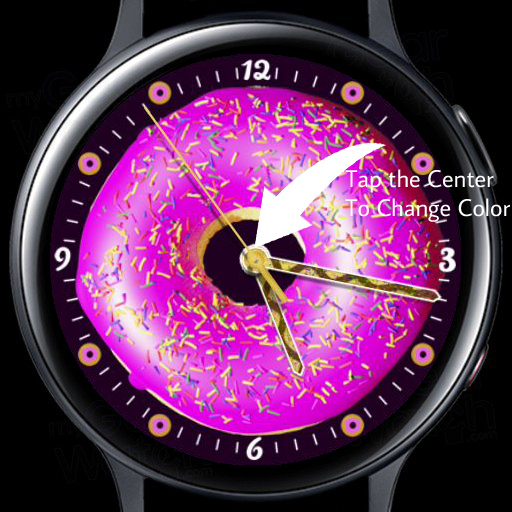
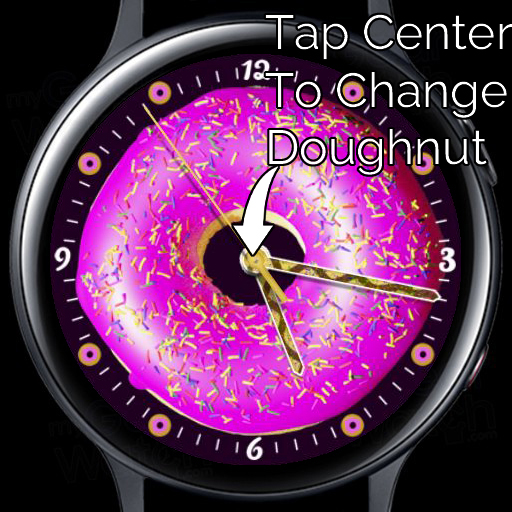
mobile css on explore and instruction img changes

Changed region(s): [[0.4375, 0.0, 1.0, 0.5]]

diff --git a/css/style.css b/css/style.css
@@ -1,1 +1,1 @@
-nav{width:100%;position:fixed;top:0;padding:10px 0;max-height:42.5px;z-index:10}nav .watchIcon{height:30px;margin-left:10px}nav ul{float:right;position:relative;width:350px;display:flex;align-items:center;justify-content:space-around;font-family:"Raleway",sans-serif;font-weight:400;font-size:20px;list-style:none;color:#fff;transition:.5s ease-in-out}nav ul li{transition:.3s ease-in-out;cursor:pointer}nav ul li a{text-decoration:none;color:#fff}nav ul li a:hover{color:#dce0e6}nav .mobileNav{position:fixed;top:10px;right:20px;height:26px;width:30px;display:none;flex-direction:column;align-items:center;justify-content:space-between;z-index:15;cursor:pointer}nav .mobileNav div{width:35px;height:6px;border-radius:2px;background-color:#fff;border:1px solid #000;pointer-events:none;transition:.3s ease-in-out}nav .selected{color:#dce0e6}nav .selected::after{content:"";border-bottom:1px solid #0226b0;display:block}@media screen and (max-width: 1000px){nav{padding:0}nav .watchIcon{margin-top:10px}nav ul{width:100%;height:50vh;position:absolute;top:-1200%;flex-direction:column;background-color:rgba(0,0,0,.8);backdrop-filter:blur(2px);font-size:26px}nav .mobileNav{display:flex}}body{min-height:100vh;width:100%;background-color:#000}#landingPage{width:100%;height:50vh;background-image:url("./../images/watchBackgroundDigital.jpg");background-position:center;background-size:cover;background-repeat:no-repeat;position:relative;box-shadow:0 0 20px #000;clip-path:ellipse(100% 55% at 48% 44%)}#landingPage nav{position:absolute}#getStartedBox{position:absolute;top:35%;right:0;left:0;display:flex;flex-direction:column;justify-content:center;align-items:center}#getStartedBox h1{position:relative}#getStartedBox h1 span{font-size:15px;position:absolute;bottom:0;right:0}#getStartedBox #getStartedButtons{display:flex;justify-content:space-around;align-items:center;width:200px;height:50px}#getStartedBox #getStartedButtons button{width:80px;height:40px;font-family:"Raleway",sans-serif;font-weight:800;border:2px solid;cursor:pointer;border-radius:2px;transition:.3s ease-in-out}#getStartedBox #getStartedButtons #getStarted{background-color:#f7d826;border-color:#f7d826}#getStartedBox #getStartedButtons #getStarted:hover{background-color:rgba(0,0,0,.3);color:#f7d826;border-color:#0226b0}#getStartedBox #getStartedButtons #learnMore{background-color:transparent;border-color:#0226b0;color:#f7d826;background-color:rgba(0,0,0,.3)}#getStartedBox #getStartedButtons #learnMore:hover{background-color:#f7d826;color:#000;border-color:#f7d826}@media screen and (max-width: 550px){#getStartedBox h1{font-size:50px}#getStartedBox h1 span{font-size:10px}}h1{color:#fff;font-family:"Playfair Display",serif;font-size:80px;font-weight:400;margin-bottom:10px;text-align:center;text-shadow:3px 4px 3px #000}h2{color:#fff;font-family:"Playfair Display",serif;font-size:70px;font-weight:400;margin-bottom:10px;text-align:center;text-shadow:3px 4px 3px #000}#introFaces{display:flex;flex-wrap:wrap;align-items:center;justify-content:space-around;margin:40px 0;padding:20px 0;border-radius:2px}#aboutMe{padding-top:100px;display:flex;flex-direction:column}#aboutMe p{color:#fff;font-family:"Raleway",sans-serif;line-height:1.5;width:600px;margin:30px auto}#aboutMe a{margin:0 auto}#aboutMe #mePortrait{width:250px;margin:0 auto;border-radius:2px}.contactButton{width:80px;height:40px;font-family:"Raleway",sans-serif;font-weight:800;background-color:transparent;border:2px solid #f7d826;border-radius:2px;color:#f7d826;transition:.3s ease-in-out;cursor:pointer}.contactButton:hover{background-color:#f7d826;color:#000}#exploreHead{padding-top:100px}.symbolsKey{color:#fff;display:flex;justify-content:space-between;width:300px;margin:0 auto}.symbolsKey .symbol{font-family:"Raleway",sans-serif;display:flex;justify-content:center;align-items:center}.symbolsKey .symbol img{margin-right:5px}.watchesContainer{display:flex;flex-wrap:wrap;justify-content:space-around;align-items:center;width:80%;margin:0 auto}.watchFaceContainer{width:320px;height:400px;background-color:#000;text-align:center;font-family:"Raleway",sans-serif;font-weight:300;color:#fff;margin:30px 40px;border-radius:2px;transition:.3s ease-in-out;overflow:hidden;cursor:pointer}.watchFaceContainer:hover{color:#f7d826}.watchFaceContainer img:first-child{pointer-events:none;border-radius:2px;width:100%}.watchFaceContainer .animatedContainer{position:relative;pointer-events:none}.watchFaceContainer .animatedContainer video{position:absolute;top:50%;left:50%;border-radius:50%;width:270px;transform:translate(-50%, -50%)}.expandedWatch{max-width:80%;min-height:500px;background-color:#000;border:1px solid #fff;border-radius:3px;position:fixed;top:50%;left:50%;transform:translate(-50%, -50%);padding:10px;display:none;flex-direction:column;align-items:center;justify-content:center;z-index:5;cursor:default}.expandedWatch .closeButton{width:30px;height:30px;background-color:transparent;position:absolute;top:20px;right:40px;border:none;outline:none;cursor:pointer}.expandedWatch .closeButton .close1,.expandedWatch .closeButton .close2{width:30px;height:5px;background-color:#ae0c08;border-radius:2px;pointer-events:none}.expandedWatch .closeButton .close1{transform:rotate(-45deg) translate(-5px, -1.5px)}.expandedWatch .closeButton .close2{transform:rotate(45deg) translate(-5px, 1.5px)}.expandedWatch .multiWatch{width:80%;margin-bottom:5px}.expandedWatch .singleWatch{width:20%;margin:5px}.expandedWatch .contactButton{margin-top:20px}.expandedWatch .contactButton:hover a{color:#000}.expandedWatch .contactButton a{text-decoration:none;color:#f7d826}.screenShade{z-index:2;position:fixed;top:0;left:0;width:100%;height:100vh;background-color:rgba(0,0,0,.8);backdrop-filter:blur(2px);opacity:0;pointer-events:none;transition:opacity .2s linear}@media screen and (max-width: 500px){.watchesContainer{width:100%}.watchFaceContainer{margin:0 auto}}*{padding:0;margin:0;box-sizing:border-box}/*# sourceMappingURL=style.css.map */
+nav{width:100%;position:fixed;top:0;padding:10px 0;max-height:42.5px;z-index:10}nav .watchIcon{height:30px;margin-left:10px}nav ul{float:right;position:relative;width:350px;display:flex;align-items:center;justify-content:space-around;font-family:"Raleway",sans-serif;font-weight:400;font-size:20px;list-style:none;color:#fff;transition:.5s ease-in-out}nav ul li{transition:.3s ease-in-out;cursor:pointer}nav ul li a{text-decoration:none;color:#fff}nav ul li a:hover{color:#dce0e6}nav .mobileNav{position:fixed;top:10px;right:20px;height:26px;width:30px;display:none;flex-direction:column;align-items:center;justify-content:space-between;z-index:15;cursor:pointer}nav .mobileNav div{width:35px;height:6px;border-radius:2px;background-color:#fff;border:1px solid #000;pointer-events:none;transition:.3s ease-in-out}nav .selected{color:#dce0e6}nav .selected::after{content:"";border-bottom:1px solid #0226b0;display:block}@media screen and (max-width: 1000px){nav{padding:0}nav .watchIcon{margin-top:10px}nav ul{width:100%;height:50vh;position:absolute;top:-1200%;flex-direction:column;background-color:rgba(0,0,0,.8);backdrop-filter:blur(2px);font-size:26px}nav .mobileNav{display:flex}}body{min-height:100vh;width:100%;background-color:#000}#landingPage{width:100%;height:50vh;background-image:url("./../images/watchBackgroundDigital.jpg");background-position:center;background-size:cover;background-repeat:no-repeat;position:relative;box-shadow:0 0 20px #000;clip-path:ellipse(100% 55% at 48% 44%)}#landingPage nav{position:absolute}#getStartedBox{position:absolute;top:35%;right:0;left:0;display:flex;flex-direction:column;justify-content:center;align-items:center}#getStartedBox h1{position:relative}#getStartedBox h1 span{font-size:15px;position:absolute;bottom:0;right:0}#getStartedBox #getStartedButtons{display:flex;justify-content:space-around;align-items:center;width:200px;height:50px}#getStartedBox #getStartedButtons button{width:80px;height:40px;font-family:"Raleway",sans-serif;font-weight:800;border:2px solid;cursor:pointer;border-radius:2px;transition:.3s ease-in-out}#getStartedBox #getStartedButtons #getStarted{background-color:#f7d826;border-color:#f7d826}#getStartedBox #getStartedButtons #getStarted:hover{background-color:rgba(0,0,0,.3);color:#f7d826;border-color:#0226b0}#getStartedBox #getStartedButtons #learnMore{background-color:transparent;border-color:#0226b0;color:#f7d826;background-color:rgba(0,0,0,.3)}#getStartedBox #getStartedButtons #learnMore:hover{background-color:#f7d826;color:#000;border-color:#f7d826}@media screen and (max-width: 550px){#getStartedBox h1{font-size:50px}#getStartedBox h1 span{font-size:10px}}h1{color:#fff;font-family:"Playfair Display",serif;font-size:80px;font-weight:400;margin-bottom:10px;text-align:center;text-shadow:3px 4px 3px #000}h2{color:#fff;font-family:"Playfair Display",serif;font-size:70px;font-weight:400;margin-bottom:10px;text-align:center;text-shadow:3px 4px 3px #000}#introFaces{display:flex;flex-wrap:wrap;align-items:center;justify-content:space-around;margin:40px 0;padding:20px 0;border-radius:2px}#aboutMe{padding-top:100px;display:flex;flex-direction:column}#aboutMe p{color:#fff;font-family:"Raleway",sans-serif;line-height:1.5;width:600px;margin:30px auto}#aboutMe a{margin:0 auto}#aboutMe #mePortrait{width:250px;margin:0 auto;border-radius:2px}.contactButton{width:80px;height:40px;font-family:"Raleway",sans-serif;font-weight:800;background-color:transparent;border:2px solid #f7d826;border-radius:2px;color:#f7d826;transition:.3s ease-in-out;cursor:pointer}.contactButton:hover{background-color:#f7d826;color:#000}#exploreHead{padding-top:100px}.symbolsKey{color:#fff;display:flex;justify-content:space-between;width:300px;margin:0 auto 5px auto}.symbolsKey .symbol{font-family:"Raleway",sans-serif;display:flex;justify-content:center;align-items:center}.symbolsKey .symbol img{margin-right:5px}.watchesContainer{display:flex;flex-wrap:wrap;justify-content:space-around;align-items:center;width:80%;margin:0 auto}.watchFaceContainer{width:320px;height:400px;background-color:#000;text-align:center;font-family:"Raleway",sans-serif;font-weight:300;color:#fff;margin:30px 40px;border-radius:2px;transition:.3s ease-in-out;overflow:hidden;cursor:pointer}.watchFaceContainer:hover{color:#f7d826}.watchFaceContainer img:first-child{pointer-events:none;border-radius:2px;width:100%}.watchFaceContainer .animatedContainer{position:relative;pointer-events:none}.watchFaceContainer .animatedContainer video{position:absolute;top:50%;left:50%;border-radius:50%;width:270px;transform:translate(-50%, -50%)}.expandedWatch{max-width:80%;min-height:500px;background-color:#000;border:1px solid #fff;border-radius:3px;position:fixed;top:50%;left:50%;transform:translate(-50%, -50%);padding:10px;display:none;flex-direction:column;align-items:center;justify-content:center;z-index:5;cursor:default}.expandedWatch .closeButton{width:30px;height:30px;background-color:transparent;position:absolute;top:20px;right:40px;border:none;outline:none;cursor:pointer}.expandedWatch .closeButton .close1,.expandedWatch .closeButton .close2{width:30px;height:5px;background-color:#ae0c08;border-radius:2px;pointer-events:none}.expandedWatch .closeButton .close1{transform:rotate(-45deg) translate(-5px, -1.5px)}.expandedWatch .closeButton .close2{transform:rotate(45deg) translate(-5px, 1.5px)}.expandedWatch .multiWatch{width:80%;margin-bottom:5px}.expandedWatch .singleWatch{width:20%;margin:5px}.expandedWatch .contactButton{margin-top:20px}.expandedWatch .contactButton:hover a{color:#000}.expandedWatch .contactButton a{text-decoration:none;color:#f7d826}.screenShade{z-index:2;position:fixed;top:0;left:0;width:100%;height:100vh;background-color:rgba(0,0,0,.8);backdrop-filter:blur(2px);opacity:0;pointer-events:none;transition:opacity .2s linear}@media screen and (max-width: 1000px){.expandedWatch{max-width:none;width:100%}.expandedWatch .closeButton{top:15px;right:20px}}@media screen and (max-width: 500px){.watchesContainer{width:100%}.watchFaceContainer{margin:0 auto}}*{padding:0;margin:0;box-sizing:border-box}/*# sourceMappingURL=style.css.map */

diff --git a/styles/pages/_main.scss b/styles/pages/_main.scss
@@ -269,7 +269,7 @@ h2 {
     display: flex;
     justify-content: space-between;
     width: 300px;
-    margin: 0 auto;
+    margin: 0 auto 5px auto;
     .symbol {
         font-family: v.$font2;
         display: flex;
@@ -401,6 +401,17 @@ h2 {
     opacity: 0;
     pointer-events: none;
     transition: opacity .2s linear;
+}
+
+@media screen and (max-width: 1000px) {
+    .expandedWatch {
+        max-width: none;
+        width: 100%;
+        .closeButton {
+            top: 15px;
+            right: 20px;
+        }
+    }
 }
 
 @media screen and (max-width: 500px) {
